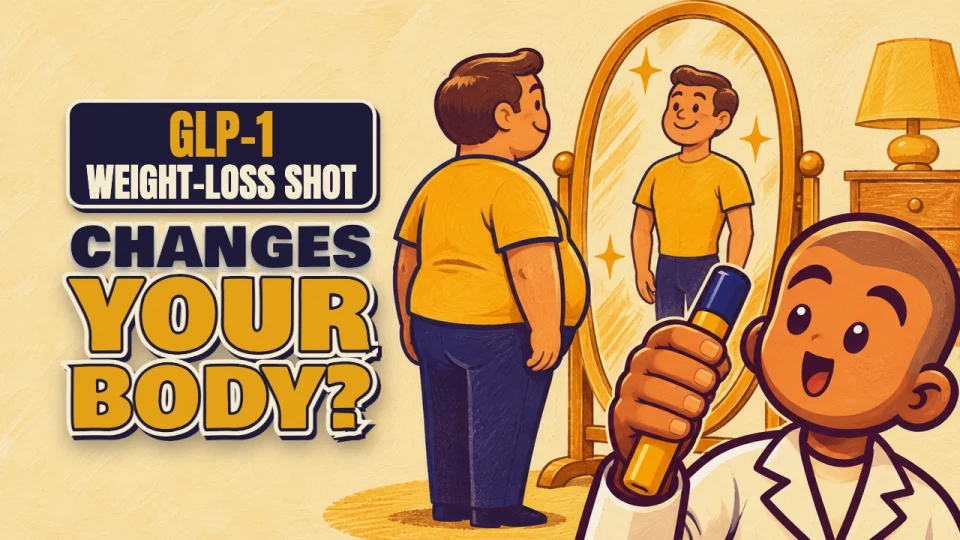
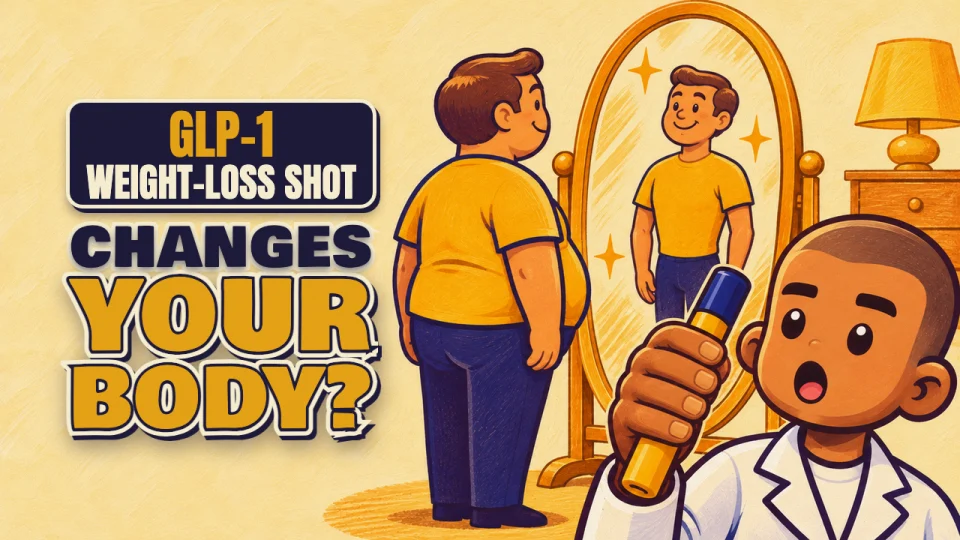
EP5 card thumbnail -> Mirror Moment v3 (Addani Cartoon on-model, Mo 11-07-2026)

diff --git a/index.html b/index.html
@@ -638,8 +638,8 @@ html[data-theme="light"] .f-chem{--c:#A16207!important}
         <div class="ep-card">
           <div class="ep-thumb">
             <span class="ep-pic">
-              <img class="pic-en" src="episodes/assets/ep05/thumb-en-960.webp?v=1107e" srcset="episodes/assets/ep05/thumb-en-960.webp?v=1107e 960w, episodes/assets/ep05/thumb-en.webp?v=1107e 1280w" sizes="(max-width:640px) 92vw, 760px" width="1280" height="720" alt="GLP-1 weight-loss shot: changes your body? Episode 5" loading="lazy">
-              <img class="pic-ar" src="episodes/assets/ep05/thumb-ar-960.webp?v=1107e" srcset="episodes/assets/ep05/thumb-ar-960.webp?v=1107e 960w, episodes/assets/ep05/thumb-ar.webp?v=1107e 1280w" sizes="(max-width:640px) 92vw, 760px" width="1280" height="720" alt="إبرة تنحيف GLP-1: تغير جسمك؟ الحلقة 5" loading="lazy">
+              <img class="pic-en" src="episodes/assets/ep05/thumb-en-960.webp?v=1107f" srcset="episodes/assets/ep05/thumb-en-960.webp?v=1107f 960w, episodes/assets/ep05/thumb-en.webp?v=1107f 1280w" sizes="(max-width:640px) 92vw, 760px" width="1280" height="720" alt="GLP-1 weight-loss shot: changes your body? Episode 5" loading="lazy">
+              <img class="pic-ar" src="episodes/assets/ep05/thumb-ar-960.webp?v=1107f" srcset="episodes/assets/ep05/thumb-ar-960.webp?v=1107f 960w, episodes/assets/ep05/thumb-ar.webp?v=1107f 1280w" sizes="(max-width:640px) 92vw, 760px" width="1280" height="720" alt="إبرة تنحيف GLP-1: تغير جسمك؟ الحلقة 5" loading="lazy">
             </span>
             <span class="ep-strip">
               <img class="logo-en" src="assets/logo-white.png" alt="Addani Labs" width="480" height="151"><img class="logo-ar" src="assets/logo-ar-white.png" alt="مختبرات عداني" width="978" height="210">
